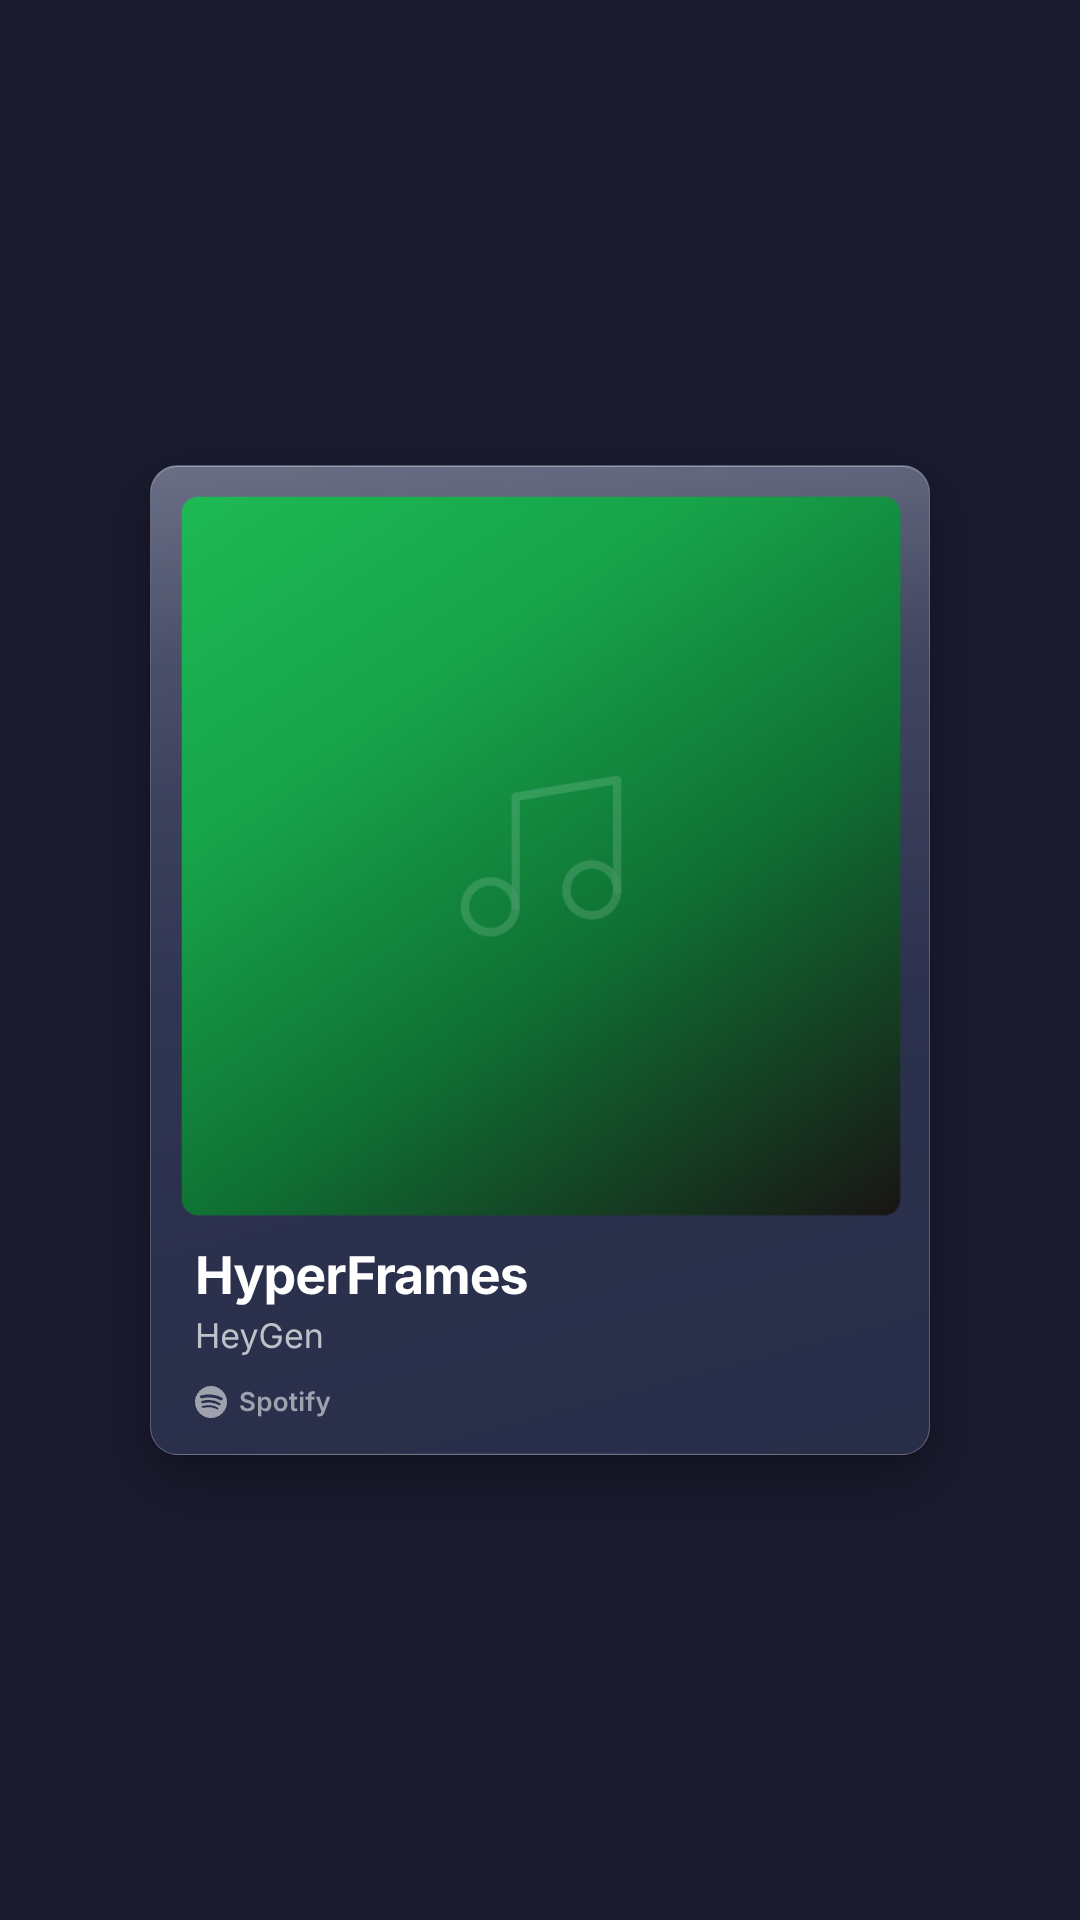
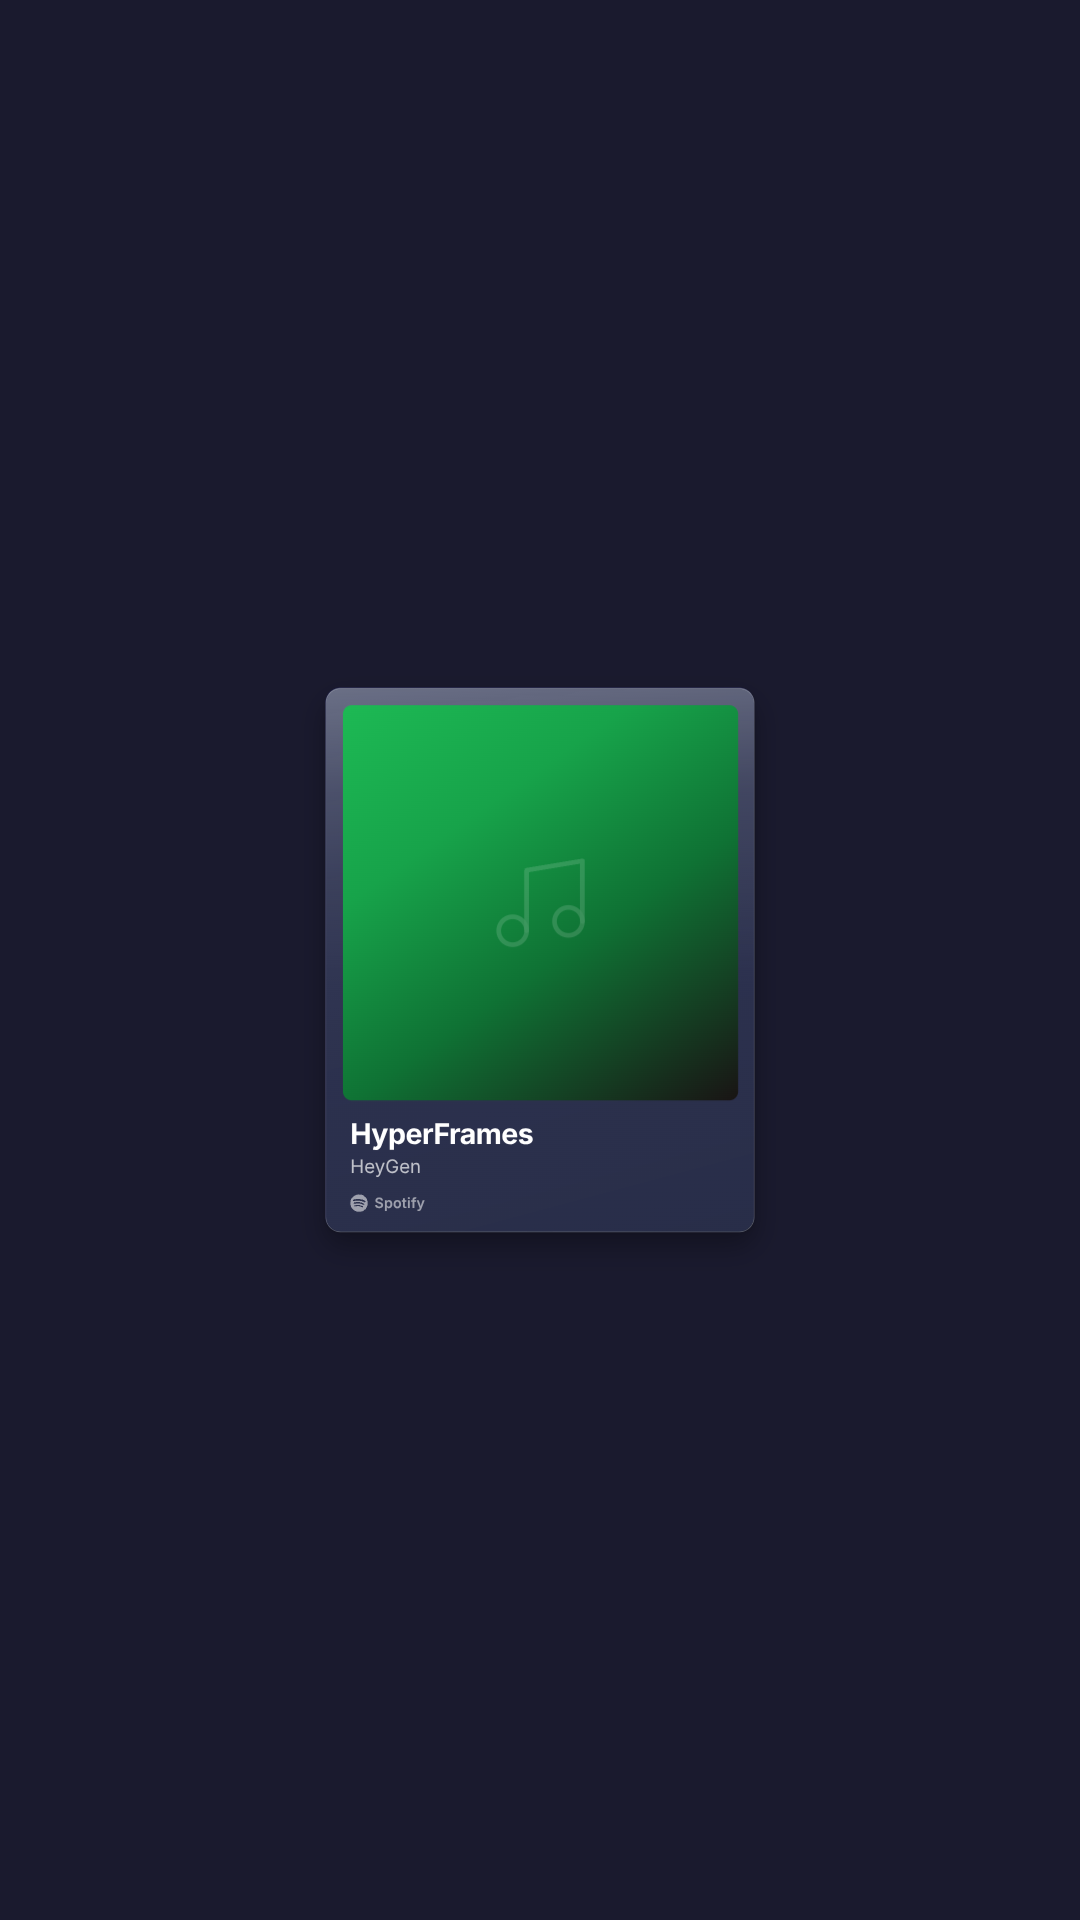
fix: scale down spotify-card preview to show card with breathing room

Changed region(s): [[0.1222, 0.2188, 0.8861, 0.7812], [0.4278, 0.4062, 0.5806, 0.5]]

diff --git a/scripts/generate-catalog-previews.ts b/scripts/generate-catalog-previews.ts
@@ -158,6 +158,14 @@ function prepareProjectDir(item: CatalogItem): string {
           /bottom:\s*\d+px;\s*\n(\s*)left:\s*50%;\s*\n(\s*)transform:\s*translateX\(-50%\)/,
           "top: 50%;\n$1left: 50%;\n$2transform: translate(-50%, -50%)",
         );
+        // Scale down large centered cards (like Spotify) that use
+        // margin-based centering with large negative margins.
+        if (/margin-top:\s*-[3-9]\d\dpx/.test(content)) {
+          content = content.replace(
+            /(<body[^>]*>)/,
+            "$1\n<style>body { transform: scale(0.55); transform-origin: center center; }</style>",
+          );
+        }
       }
       writeFileSync(join(tmpDir, "index.html"), content, "utf-8");
       return tmpDir;